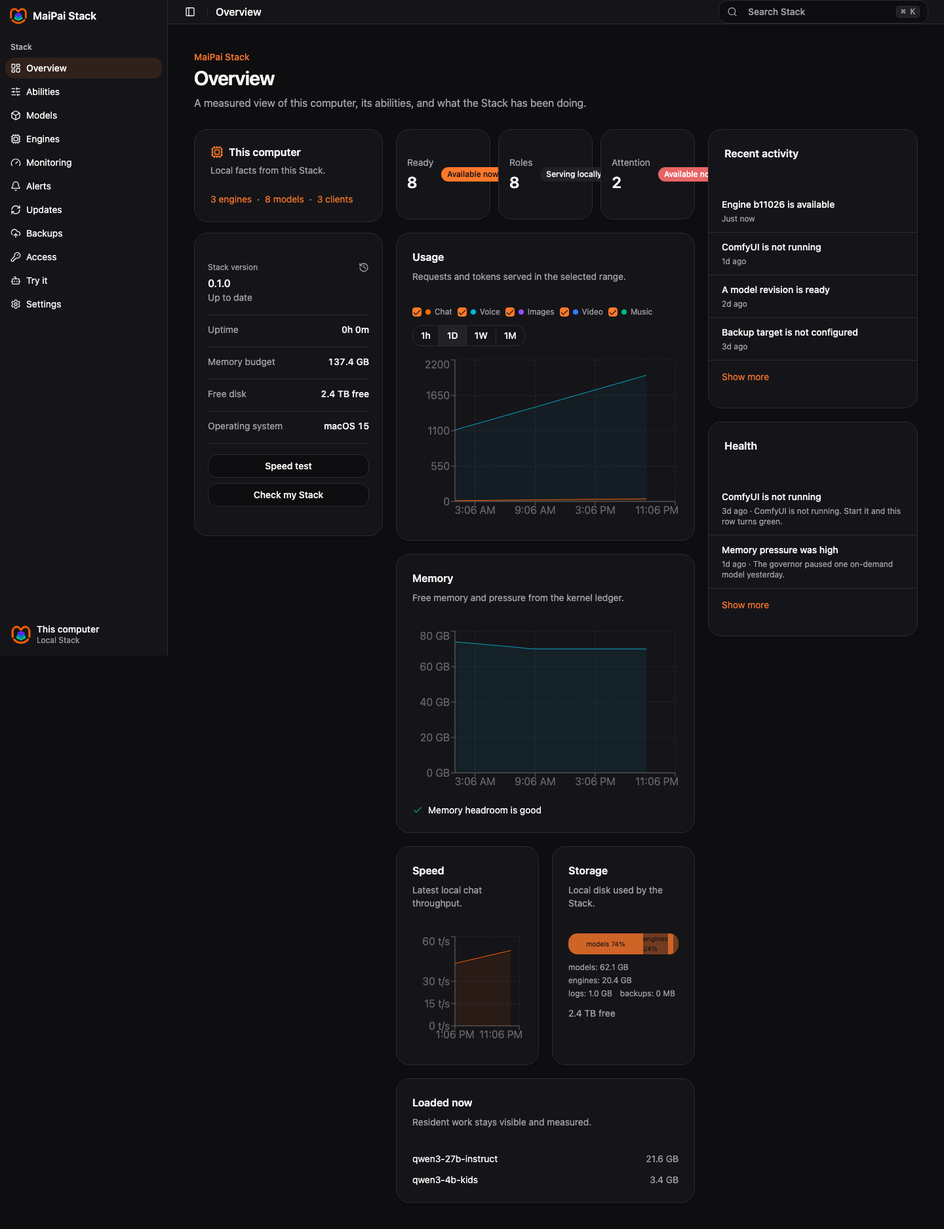
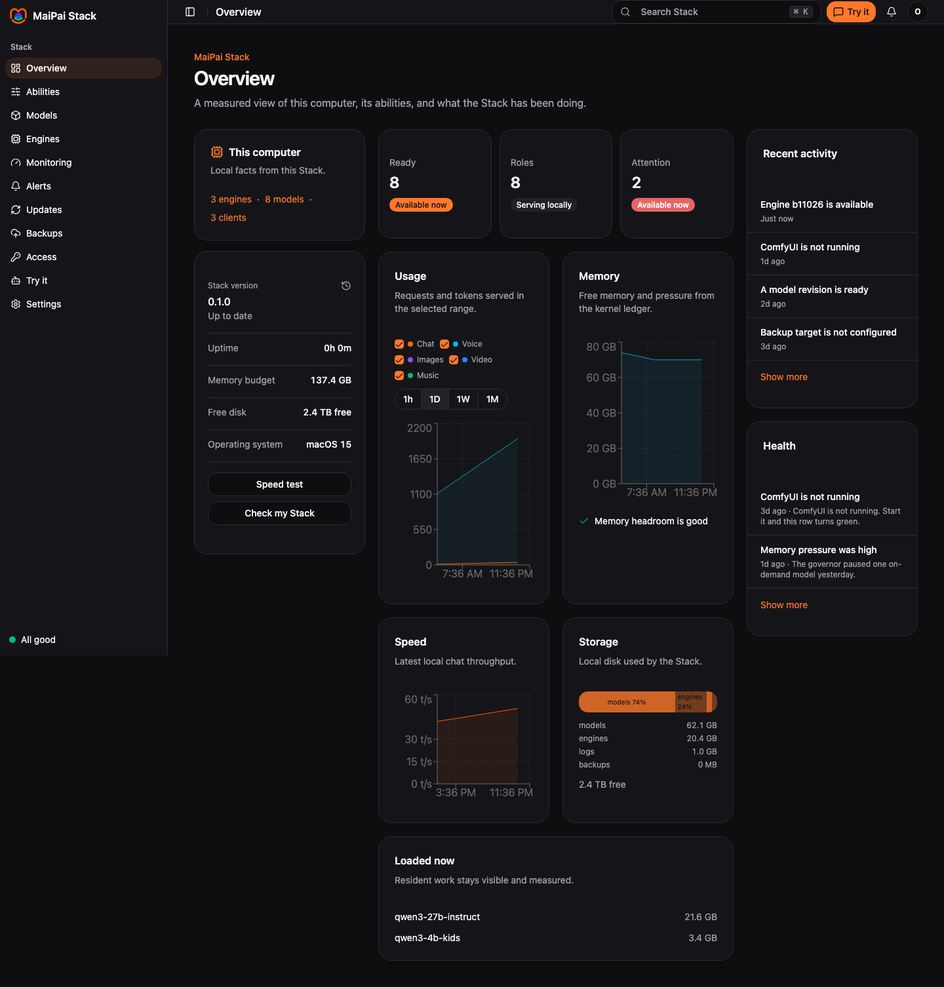
Overview: the grid breathes; badges and labels never clip

diff --git a/frontend/src/pages/OverviewPage.tsx b/frontend/src/pages/OverviewPage.tsx
@@ -15,6 +15,7 @@ import { ToggleGroup, ToggleGroupItem } from "@/kit/ui/toggle-group";
 import { Toaster } from "@/kit/ui/sonner";
 
 type Range = "hour" | "day" | "week" | "month";
+type Layout = "desktop" | "tablet" | "phone";
 type SeriesSample = { at: string; ability?: string | null; requests?: number; tokensIn?: number; tokensOut?: number; freeBytes?: number; pressure?: string; tokensPerSecond?: number | null };
 type SeriesResponse = { range: string; usage: SeriesSample[]; memory: SeriesSample[]; speed: SeriesSample[] };
 type UpdateState = { installed: string; available: string | null };
@@ -31,18 +32,31 @@ function labelFor(at: string): string { return new Date(at).toLocaleTimeString([
 function relativeTime(value: string): string { const minutes = Math.max(0, Math.round((Date.now() - new Date(value).getTime()) / 60_000)); if (minutes < 1) return "Just now"; if (minutes < 60) return `${minutes}m ago`; const hours = Math.round(minutes / 60); if (hours < 24) return `${hours}h ago`; return `${Math.round(hours / 24)}d ago`; }
 function formatUptime(seconds: number): string { const hours = Math.floor(seconds / 3600); const days = Math.floor(hours / 24); if (days > 0) return `${days}d ${hours % 24}h`; return `${hours}h ${Math.floor(seconds / 60) % 60}m`; }
 function initialRange(): Range { const saved = typeof window === "undefined" ? null : window.localStorage.getItem("maipai-overview-range"); return saved === "hour" || saved === "day" || saved === "week" || saved === "month" ? saved : "day"; }
+function layoutFor(width: number): Layout { return width >= 1200 ? "desktop" : width >= 640 ? "tablet" : "phone"; }
+function useLayout(): Layout {
+  const [layout, setLayout] = useState<Layout>(() => layoutFor(typeof window === "undefined" ? 1440 : window.innerWidth));
+  useEffect(() => { const update = () => setLayout(layoutFor(window.innerWidth)); update(); window.addEventListener("resize", update); return () => window.removeEventListener("resize", update); }, []);
+  return layout;
+}
 function Widget({ title, description, children, className = "" }: { title: string; description?: string; children: ReactNode; className?: string }) { return <Card className={className}><CardHeader className="pb-3"><CardTitle className="text-base">{title}</CardTitle>{description && <CardDescription>{description}</CardDescription>}</CardHeader><CardContent>{children}</CardContent></Card>; }
 
-function FactsColumn({ hardware, healthz, budget, updates, counts, onSpeedTest, onCheckStack }: { hardware?: HardwareResponse["hardware"]; healthz?: { version: string; uptimeSeconds: number }; budget?: BudgetResponse; updates?: UpdatesResponse; counts: { engines: number; models: number; clients: number }; onSpeedTest: () => void; onCheckStack: () => void }) {
+function FactsColumn({ className = "", desktop = false, hardware, healthz, budget, updates, counts, onSpeedTest, onCheckStack }: { className?: string; desktop?: boolean; hardware?: HardwareResponse["hardware"]; healthz?: { version: string; uptimeSeconds: number }; budget?: BudgetResponse; updates?: UpdatesResponse; counts: { engines: number; models: number; clients: number }; onSpeedTest: () => void; onCheckStack: () => void }) {
   const facts = [{ label: "Uptime", value: healthz ? formatUptime(healthz.uptimeSeconds) : "Loading" }, { label: "Memory budget", value: budget ? formatBytes(budget.capBytes) : "Loading" }, { label: "Free disk", value: hardware ? `${formatBytes(hardware.freeDiskBytes)} free` : "Loading" }, { label: "Operating system", value: hardware ? osPlain(hardware.osVersion) : "Loading" }];
-  return <aside className="space-y-4"><Card><CardHeader><CardTitle className="flex items-center gap-2"><Cpu className="size-5 text-primary" />This computer</CardTitle><CardDescription>Local facts from this Stack.</CardDescription></CardHeader><CardContent><div className="flex flex-wrap items-center gap-2 text-sm"><Link className="text-primary" to="/engines">{counts.engines} engines</Link><span aria-hidden="true" className="text-muted-foreground">·</span><Link className="text-primary" to="/models">{counts.models} models</Link><span aria-hidden="true" className="text-muted-foreground">·</span><Link className="text-primary" to="/access">{counts.clients} clients</Link></div></CardContent></Card><Card><CardContent className="space-y-4 p-5"><div className="flex items-start justify-between gap-3"><div><p className="text-xs text-muted-foreground">Stack version</p><p className="mt-1 font-medium">{updates?.app?.installed ?? "Loading"}</p><p className="text-sm text-muted-foreground">{updates?.app?.available ? "Update available" : "Up to date"}</p></div><Link aria-label="View updates" title="View updates" className="text-muted-foreground hover:text-foreground" to="/updates"><History className="size-4" /></Link></div>{facts.map((fact) => <div className="flex items-center justify-between gap-4 border-t pt-3 text-sm" key={fact.label}><span className="text-muted-foreground">{fact.label}</span><span className="text-right font-medium tabular-nums">{fact.value}</span></div>)}<div className="space-y-2 border-t pt-4"><Button className="w-full" variant="outline" onClick={onSpeedTest}>Speed test</Button><Button className="w-full" variant="outline" onClick={onCheckStack}>Check my Stack</Button></div></CardContent></Card></aside>;
+  return <aside className={`space-y-4 sm:grid sm:grid-cols-2 sm:items-start sm:gap-4 sm:space-y-0 ${desktop ? "lg:block lg:space-y-4" : ""} ${className}`}><Card><CardHeader><CardTitle className="flex items-center gap-2"><Cpu className="size-5 text-primary" />This computer</CardTitle><CardDescription>Local facts from this Stack.</CardDescription></CardHeader><CardContent><div className="flex flex-wrap items-center gap-2 text-sm"><Link className="text-primary" to="/engines">{counts.engines} engines</Link><span aria-hidden="true" className="text-muted-foreground">·</span><Link className="text-primary" to="/models">{counts.models} models</Link><span aria-hidden="true" className="text-muted-foreground">·</span><Link className="text-primary" to="/access">{counts.clients} clients</Link></div></CardContent></Card><Card><CardContent className="space-y-4 p-5"><div className="flex items-start justify-between gap-3"><div><p className="text-xs text-muted-foreground">Stack version</p><p className="mt-1 font-medium">{updates?.app?.installed ?? "Loading"}</p><p className="text-sm text-muted-foreground">{updates?.app?.available ? "Update available" : "Up to date"}</p></div><Link aria-label="View updates" title="View updates" className="text-muted-foreground hover:text-foreground" to="/updates"><History className="size-4" /></Link></div>{facts.map((fact) => <div className="flex items-center justify-between gap-4 border-t pt-3 text-sm" key={fact.label}><span className="text-muted-foreground">{fact.label}</span><span className="text-right font-medium tabular-nums">{fact.value}</span></div>)}<div className="space-y-2 border-t pt-4"><Button className="w-full" variant="outline" onClick={onSpeedTest}>Speed test</Button><Button className="w-full" variant="outline" onClick={onCheckStack}>Check my Stack</Button></div></CardContent></Card></aside>;
 }
 
 function FeedCard({ title, items, empty, more }: { title: string; items: Array<{ id: string; primary: string; meta: string }>; empty: string; more: string }) { return <Card><CardHeader className="pb-3"><CardTitle className="text-base">{title}</CardTitle></CardHeader><CardContent className="p-0"><div className="divide-y">{items.length ? items.map((item) => <div className="px-5 py-3" key={item.id}><p className="text-sm font-medium">{item.primary}</p><p className="mt-1 text-xs text-muted-foreground">{item.meta}</p></div>) : <p className="px-5 py-4 text-sm text-muted-foreground">{empty}</p>}</div><div className="border-t px-5 py-3"><Link className="text-sm text-primary hover:underline" to="/alerts">{more}</Link></div></CardContent></Card>; }
 
 const abilityLegend = [{ id: "chat", label: "Chat", color: "bg-orange-500" }, { id: "voice", label: "Voice", color: "bg-cyan-500" }, { id: "image", label: "Images", color: "bg-violet-500" }, { id: "video", label: "Video", color: "bg-blue-500" }, { id: "music", label: "Music", color: "bg-emerald-500" }];
 
+function StorageWidget({ storage }: { storage: StorageResponse | undefined }) {
+  const categories = ["models", "engines", "logs", "backups"].map((id) => ({ id, value: storage?.byCategory?.[id] ?? 0 }));
+  const total = categories.reduce((sum, category) => sum + category.value, 0);
+  return <Widget title="Storage" description="Local disk used by the Stack."><div className="space-y-3">{total > 0 && <div className="flex h-8 overflow-hidden rounded-md" aria-label="Storage usage">{categories.map((category) => { const percentage = category.value / total * 100; return <div className="flex min-w-0 items-center justify-center bg-primary/80 px-1 text-[10px] text-primary-foreground even:bg-primary/40" key={category.id} style={{ width: `${Math.max(3, percentage)}%` }} title={`${category.id}: ${formatBytes(category.value)}`}>{percentage >= 18 ? `${category.id} ${Math.round(percentage)}%` : ""}</div>; })}</div>}<div className="space-y-1 text-xs text-muted-foreground">{categories.map((category) => <div className="flex items-center justify-between gap-3" key={category.id}><span>{category.id}</span><span className="tabular-nums">{formatBytes(category.value)}</span></div>)}</div><p className="text-sm text-muted-foreground">{storage ? `${formatBytes(storage.freeDiskBytes)} free` : "Waiting for storage accounting."}</p></div></Widget>;
+}
+
 export function OverviewPage() {
+  const layout = useLayout();
   const [range, setRange] = useState<Range>(initialRange);
   const [visibleAbilities, setVisibleAbilities] = useState<Record<string, boolean>>(() => Object.fromEntries(abilityLegend.map((ability) => [ability.id, true])));
   const roles = useApiResource<{ roles: RoleRecord[] }>("/stack/v1/roles");
@@ -67,8 +81,8 @@ export function OverviewPage() {
   const speed = (series.data?.speed ?? []).map((item) => ({ ...item, label: labelFor(item.at), tps: item.tokensPerSecond ?? 0 }));
   const healthItems = (health.data?.health ?? []).slice(0, 4).map((item) => ({ id: item.code, primary: item.title, meta: `${relativeTime(item.since)} · ${item.text}` }));
   const activityItems = (notifications.data?.notifications ?? []).slice(0, 4).map((item) => ({ id: item.id, primary: item.title, meta: relativeTime(item.at) }));
-  const storageCategories = ["models", "engines", "logs", "backups"].map((id) => ({ id, value: storage.data?.byCategory?.[id] ?? 0 }));
-  const storageTotal = storageCategories.reduce((total, category) => total + category.value, 0);
   const statusLinks = [{ label: "Ready", value: ready, href: "/models", tone: "default" as const }, { label: "Roles", value: roleRows.length, href: "/engines", tone: "secondary" as const }, { label: "Attention", value: attention, href: "/alerts", tone: attention ? "destructive" as const : "secondary" as const }];
-  return <><Toaster /><main className="mx-auto w-full max-w-7xl space-y-7 px-4 py-7 sm:px-8 lg:px-10 lg:py-10"><div><p className="text-sm font-medium text-primary">MaiPai Stack</p><h2 className="mt-1 text-3xl font-semibold tracking-tight">Overview</h2><p className="mt-2 text-base text-muted-foreground">A measured view of this computer, its abilities, and what the Stack has been doing.</p></div><div className="grid gap-5 lg:grid-cols-[18rem_minmax(0,1fr)_20rem]"><FactsColumn hardware={hardware.data?.hardware} healthz={healthz.data} budget={budget.data} updates={updates.data} counts={{ engines: engines.data?.engines?.length ?? 0, models: models.data?.models?.length ?? 0, clients: clients.data?.clients?.length ?? 0 }} onSpeedTest={() => toast("Coming with the speed test item.")} onCheckStack={() => toast("Coming with the Check my Stack item.")} /><section className="min-w-0 space-y-5"><div className="grid gap-3 sm:grid-cols-3">{statusLinks.map((status) => <Link to={status.href} key={status.label}><Card className="h-full hover:border-primary/50"><CardContent className="flex items-center justify-between gap-3 p-4"><div><p className="text-sm text-muted-foreground">{status.label}</p><p className="mt-1 text-2xl font-semibold tabular-nums">{status.value}</p></div><Badge variant={status.tone}>{status.label === "Attention" && status.value === 0 ? "All clear" : status.label === "Roles" ? "Serving locally" : "Available now"}</Badge></CardContent></Card></Link>)}</div><Widget title="Usage" description="Requests and tokens served in the selected range."><div className="mb-4 flex flex-wrap items-center justify-between gap-3"><div className="flex flex-wrap items-center gap-2">{abilityLegend.map((ability) => <label className="flex items-center gap-1.5 text-xs text-muted-foreground" key={ability.id}><Checkbox aria-label={ability.label} className="size-3.5" checked={visibleAbilities[ability.id] !== false} onCheckedChange={(checked) => setVisibleAbilities((current) => ({ ...current, [ability.id]: checked === true }))} /><span className={`size-2 rounded-full ${ability.color}`} />{ability.label}</label>)}</div><ToggleGroup type="single" value={range} onValueChange={(value) => { if (value) setRange(value as Range); }} variant="outline" size="sm" aria-label="Time range"><ToggleGroupItem value="hour" aria-label="1h">1h</ToggleGroupItem><ToggleGroupItem value="day" aria-label="1D">1D</ToggleGroupItem><ToggleGroupItem value="week" aria-label="1W">1W</ToggleGroupItem><ToggleGroupItem value="month" aria-label="1M">1M</ToggleGroupItem></ToggleGroup></div><div className="h-64"><ResponsiveContainer width="100%" height="100%"><AreaChart data={usage}><CartesianGrid strokeDasharray="3 3" className="stroke-border" /><XAxis dataKey="label" /><YAxis /><Tooltip /><Area type="monotone" dataKey="requests" name="Requests" stroke="hsl(22 99% 50%)" fill="hsl(22 99% 50% / .16)" /><Area type="monotone" dataKey="tokens" name="Tokens" stroke="hsl(190 90% 40%)" fill="hsl(190 90% 40% / .10)" /></AreaChart></ResponsiveContainer></div></Widget><Widget title="Memory" description="Free memory and pressure from the kernel ledger."><div className="h-64"><ResponsiveContainer width="100%" height="100%"><AreaChart data={memory}><CartesianGrid strokeDasharray="3 3" className="stroke-border" /><XAxis dataKey="label" /><YAxis unit=" GB" /><Tooltip /><Area type="monotone" dataKey="free" name="Free GB" stroke="hsl(190 90% 40%)" fill="hsl(190 90% 40% / .14)" /></AreaChart></ResponsiveContainer></div><p className="mt-3 flex items-center gap-2 text-sm"><Check className="size-4 text-emerald-600" />{budget.data?.pressure === "normal" ? "Memory headroom is good" : budget.data?.pressure === "warn" ? "Memory is getting tight" : "Memory pressure is high"}</p></Widget><div className="grid gap-5 md:grid-cols-2"><Widget title="Speed" description="Latest local chat throughput."><div className="h-44"><ResponsiveContainer width="100%" height="100%"><AreaChart data={speed}><CartesianGrid strokeDasharray="3 3" className="stroke-border" /><XAxis dataKey="label" /><YAxis unit=" t/s" /><Tooltip /><Area type="monotone" dataKey="tps" name="Tokens/s" stroke="hsl(22 99% 50%)" fill="hsl(22 99% 50% / .14)" /></AreaChart></ResponsiveContainer></div></Widget><Widget title="Storage" description="Local disk used by the Stack."><div className="space-y-3">{storageTotal > 0 && <div className="flex h-8 overflow-hidden rounded-md" aria-label="Storage usage">{storageCategories.map((category) => <div className="flex min-w-0 items-center justify-center bg-primary/80 px-1 text-[10px] text-primary-foreground even:bg-primary/40" key={category.id} style={{ width: `${Math.max(3, category.value / storageTotal * 100)}%` }} title={`${category.id}: ${formatBytes(category.value)}`}>{category.value / storageTotal > 0.08 ? `${category.id} ${Math.round(category.value / storageTotal * 100)}%` : ""}</div>)}</div>}<div className="flex flex-wrap gap-x-3 gap-y-1 text-xs text-muted-foreground">{storageCategories.map((category) => <span key={category.id}>{category.id}: {formatBytes(category.value)}</span>)}</div><p className="text-sm text-muted-foreground">{storage.data ? `${formatBytes(storage.data.freeDiskBytes)} free` : "Waiting for storage accounting."}</p></div></Widget></div><Widget title="Loaded now" description="Resident work stays visible and measured."><div className="space-y-3">{(budget.data?.loaded ?? []).slice(0, 4).map((item) => <div className="flex items-center justify-between gap-3" key={item.id}><span className="truncate text-sm">{item.id}</span><span className="text-sm text-muted-foreground">{formatBytes(item.peakBytes)}</span></div>)}{(budget.data?.loaded ?? []).length === 0 && <p className="text-sm text-muted-foreground">Nothing is loaded yet.</p>}</div></Widget></section><aside className="space-y-5"><FeedCard title="Recent activity" items={activityItems} empty="No notifications yet." more="Show more" /><FeedCard title="Health" items={healthItems} empty="No repairs needed." more="Show more" /></aside></div></main></>;
+  const layoutClass = layout === "desktop" ? "lg:grid-cols-12" : layout === "tablet" ? "sm:grid-cols-1" : "grid-cols-1";
+  const desktopColumns = layout === "desktop";
+  return <><Toaster /><main className="mx-auto w-full max-w-7xl space-y-7 px-4 py-7 sm:px-8 lg:px-10 lg:py-10"><div><p className="text-sm font-medium text-primary">MaiPai Stack</p><h2 className="mt-1 text-3xl font-semibold tracking-tight">Overview</h2><p className="mt-2 text-base text-muted-foreground">A measured view of this computer, its abilities, and what the Stack has been doing.</p></div><div data-layout={layout} className={`grid gap-5 ${layoutClass}`}><FactsColumn desktop={desktopColumns} className={desktopColumns ? "lg:col-span-3 lg:sticky lg:top-5 lg:self-start" : ""} hardware={hardware.data?.hardware} healthz={healthz.data} budget={budget.data} updates={updates.data} counts={{ engines: engines.data?.engines?.length ?? 0, models: models.data?.models?.length ?? 0, clients: clients.data?.clients?.length ?? 0 }} onSpeedTest={() => toast("Coming with the speed test item.")} onCheckStack={() => toast("Coming with the Check my Stack item.")} /><section className={`min-w-0 space-y-5 ${desktopColumns ? "lg:col-span-6" : ""}`}><div className="grid gap-3 sm:grid-cols-3">{statusLinks.map((status) => <Link to={status.href} key={status.label}><Card className="h-full hover:border-primary/50"><CardContent className="flex min-w-0 flex-col items-start gap-2 p-4"><div><p className="text-sm text-muted-foreground">{status.label}</p><p className="mt-1 text-2xl font-semibold tabular-nums">{status.value}</p></div><Badge className="max-w-full whitespace-normal text-left leading-tight" variant={status.tone}>{status.label === "Attention" && status.value === 0 ? "All clear" : status.label === "Roles" ? "Serving locally" : "Available now"}</Badge></CardContent></Card></Link>)}</div><div className="grid gap-5 sm:grid-cols-2"><Widget title="Usage" description="Requests and tokens served in the selected range."><div className="mb-4 flex flex-wrap items-center justify-between gap-3"><div className="flex flex-wrap items-center gap-2">{abilityLegend.map((ability) => <label className="flex items-center gap-1.5 text-xs text-muted-foreground" key={ability.id}><Checkbox aria-label={ability.label} className="size-3.5" checked={visibleAbilities[ability.id] !== false} onCheckedChange={(checked) => setVisibleAbilities((current) => ({ ...current, [ability.id]: checked === true }))} /><span className={`size-2 rounded-full ${ability.color}`} />{ability.label}</label>)}</div><ToggleGroup type="single" value={range} onValueChange={(value) => { if (value) setRange(value as Range); }} variant="outline" size="sm" aria-label="Time range"><ToggleGroupItem value="hour" aria-label="1h">1h</ToggleGroupItem><ToggleGroupItem value="day" aria-label="1D">1D</ToggleGroupItem><ToggleGroupItem value="week" aria-label="1W">1W</ToggleGroupItem><ToggleGroupItem value="month" aria-label="1M">1M</ToggleGroupItem></ToggleGroup></div><div className="h-64"><ResponsiveContainer width="100%" height="100%"><AreaChart data={usage}><CartesianGrid strokeDasharray="3 3" className="stroke-border" /><XAxis dataKey="label" /><YAxis /><Tooltip /><Area type="monotone" dataKey="requests" name="Requests" stroke="hsl(22 99% 50%)" fill="hsl(22 99% 50% / .16)" /><Area type="monotone" dataKey="tokens" name="Tokens" stroke="hsl(190 90% 40%)" fill="hsl(190 90% 40% / .10)" /></AreaChart></ResponsiveContainer></div></Widget><Widget title="Memory" description="Free memory and pressure from the kernel ledger."><div className="h-64"><ResponsiveContainer width="100%" height="100%"><AreaChart data={memory}><CartesianGrid strokeDasharray="3 3" className="stroke-border" /><XAxis dataKey="label" /><YAxis unit=" GB" /><Tooltip /><Area type="monotone" dataKey="free" name="Free GB" stroke="hsl(190 90% 40%)" fill="hsl(190 90% 40% / .14)" /></AreaChart></ResponsiveContainer></div><p className="mt-3 flex items-center gap-2 text-sm"><Check className="size-4 text-emerald-600" />{budget.data?.pressure === "normal" ? "Memory headroom is good" : budget.data?.pressure === "warn" ? "Memory is getting tight" : "Memory pressure is high"}</p></Widget></div><div className="grid gap-5 sm:grid-cols-2"><Widget title="Speed" description="Latest local chat throughput."><div className="h-44"><ResponsiveContainer width="100%" height="100%"><AreaChart data={speed}><CartesianGrid strokeDasharray="3 3" className="stroke-border" /><XAxis dataKey="label" /><YAxis unit=" t/s" /><Tooltip /><Area type="monotone" dataKey="tps" name="Tokens/s" stroke="hsl(22 99% 50%)" fill="hsl(22 99% 50% / .14)" /></AreaChart></ResponsiveContainer></div></Widget><StorageWidget storage={storage.data} /></div><Widget title="Loaded now" description="Resident work stays visible and measured."><div className="space-y-3">{(budget.data?.loaded ?? []).slice(0, 4).map((item) => <div className="flex items-center justify-between gap-3" key={item.id}><span className="truncate text-sm">{item.id}</span><span className="text-sm text-muted-foreground">{formatBytes(item.peakBytes)}</span></div>)}{(budget.data?.loaded ?? []).length === 0 && <p className="text-sm text-muted-foreground">Nothing is loaded yet.</p>}</div></Widget></section><aside className={`space-y-5 ${desktopColumns ? "lg:col-span-3" : ""}`}><FeedCard title="Recent activity" items={activityItems} empty="No notifications yet." more="Show more" /><FeedCard title="Health" items={healthItems} empty="No repairs needed." more="Show more" /></aside></div></main></>;
 }

diff --git a/scripts/screenshot.ts b/scripts/screenshot.ts
@@ -21,6 +21,6 @@ async function main(): Promise<void> {
   mkdirSync(SCREEN_DIR, { recursive: true });
   const port = await freePort(); const dataDir = mkdtempSync(join(tmpdir(), showroom ? "maipai-stack-showroom-" : "maipai-stack-try-")); const baseUrl = `http://127.0.0.1:${port}`;
   const server = Bun.spawn(["bun", "run", "src/index.ts"], { cwd: join(ROOT, "backend"), env: { ...process.env, PORT: String(port), STACK_DATA_DIR: dataDir, STACK_SCRIPTED_ENGINES: "1", ...(showroom ? { STACK_SHOWROOM: "1" } : {}), NODE_ENV: "development" }, stdout: "ignore", stderr: "pipe" });
-  try { await waitForHealth(baseUrl); const browser = await chromium.launch({ headless: true }); try { if (showroom) { const light = await browser.newContext({ colorScheme: "light", viewport: { width: 1440, height: 1000 } }); const lightPage = await light.newPage(); await captureShowroom(lightPage, baseUrl, "/", "Overview", join(SCREEN_DIR, "overview-console-light.png")); await captureShowroom(lightPage, baseUrl, "/engines", "Engines", join(SCREEN_DIR, "showroom-engines.png")); await captureEnginePanel(lightPage, baseUrl, join(SCREEN_DIR, "engines-panel.png")); await captureDetected(lightPage, baseUrl, "/engines", "Engines", join(SCREEN_DIR, "engines-detected.png")); await captureDetected(lightPage, baseUrl, "/engines", "Engines", join(SCREEN_DIR, "detected-panel.png")); await captureShowroom(lightPage, baseUrl, "/models", "Models", join(SCREEN_DIR, "showroom-models.png")); await captureModelsFiltered(lightPage, baseUrl, join(SCREEN_DIR, "models-filtered.png")); await captureModelsPanel(lightPage, baseUrl, join(SCREEN_DIR, "models-panel.png")); await captureDetected(lightPage, baseUrl, "/models", "Models", join(SCREEN_DIR, "models-detected.png")); await captureModelsGroups(lightPage, baseUrl, join(SCREEN_DIR, "models-groups.png")); await captureShowroom(lightPage, baseUrl, "/access", "Access", join(SCREEN_DIR, "access.png")); await captureShowroom(lightPage, baseUrl, "/alerts", "Alerts", join(SCREEN_DIR, "alerts.png")); await captureShowroom(lightPage, baseUrl, "/monitoring", "Monitoring", join(SCREEN_DIR, "monitoring-groups.png")); await light.close(); const dark = await browser.newContext({ colorScheme: "dark", viewport: { width: 1440, height: 1000 } }); const darkPage = await dark.newPage(); await captureShowroom(darkPage, baseUrl, "/", "Overview", join(SCREEN_DIR, "overview-console-dark.png")); await dark.close(); const phone = await browser.newContext({ colorScheme: "light", viewport: { width: 400, height: 900 } }); const phonePage = await phone.newPage(); await captureShowroom(phonePage, baseUrl, "/", "Overview", join(SCREEN_DIR, "overview-console-phone.png")); await captureEnginePanel(phonePage, baseUrl, join(SCREEN_DIR, "engines-panel-phone.png")); await phone.close(); } else { const light = await browser.newContext({ colorScheme: "light", viewport: { width: 1440, height: 1000 } }); const lightPage = await light.newPage(); await captureTry(lightPage, baseUrl + "/try", join(SCREEN_DIR, "try-chat-light.png")); await light.close(); const dark = await browser.newContext({ colorScheme: "dark", viewport: { width: 1440, height: 1000 } }); const darkPage = await dark.newPage(); await captureTry(darkPage, baseUrl + "/try", join(SCREEN_DIR, "try-chat-dark.png")); await dark.close(); const phone = await browser.newContext({ colorScheme: "light", viewport: { width: 400, height: 900 } }); const phonePage = await phone.newPage(); await captureTry(phonePage, baseUrl + "/try", join(SCREEN_DIR, "try-chat-phone.png")); await phone.close(); } } finally { await browser.close(); } } finally { server.kill(); await server.exited; rmSync(dataDir, { recursive: true, force: true }); }
+  try { await waitForHealth(baseUrl); const browser = await chromium.launch({ headless: true }); try { if (showroom) { const light = await browser.newContext({ colorScheme: "light", viewport: { width: 1440, height: 1000 } }); const lightPage = await light.newPage(); await captureShowroom(lightPage, baseUrl, "/", "Overview", join(SCREEN_DIR, "overview-console-light.png")); await captureShowroom(lightPage, baseUrl, "/engines", "Engines", join(SCREEN_DIR, "showroom-engines.png")); await captureEnginePanel(lightPage, baseUrl, join(SCREEN_DIR, "engines-panel.png")); await captureDetected(lightPage, baseUrl, "/engines", "Engines", join(SCREEN_DIR, "engines-detected.png")); await captureDetected(lightPage, baseUrl, "/engines", "Engines", join(SCREEN_DIR, "detected-panel.png")); await captureShowroom(lightPage, baseUrl, "/models", "Models", join(SCREEN_DIR, "showroom-models.png")); await captureModelsFiltered(lightPage, baseUrl, join(SCREEN_DIR, "models-filtered.png")); await captureModelsPanel(lightPage, baseUrl, join(SCREEN_DIR, "models-panel.png")); await captureDetected(lightPage, baseUrl, "/models", "Models", join(SCREEN_DIR, "models-detected.png")); await captureModelsGroups(lightPage, baseUrl, join(SCREEN_DIR, "models-groups.png")); await captureShowroom(lightPage, baseUrl, "/access", "Access", join(SCREEN_DIR, "access.png")); await captureShowroom(lightPage, baseUrl, "/alerts", "Alerts", join(SCREEN_DIR, "alerts.png")); await captureShowroom(lightPage, baseUrl, "/monitoring", "Monitoring", join(SCREEN_DIR, "monitoring-groups.png")); await light.close(); const dark = await browser.newContext({ colorScheme: "dark", viewport: { width: 1440, height: 1000 } }); const darkPage = await dark.newPage(); await captureShowroom(darkPage, baseUrl, "/", "Overview", join(SCREEN_DIR, "overview-console-dark.png")); await dark.close(); const tablet = await browser.newContext({ colorScheme: "light", viewport: { width: 1024, height: 768 } }); const tabletPage = await tablet.newPage(); await captureShowroom(tabletPage, baseUrl, "/", "Overview", join(SCREEN_DIR, "overview-console-tablet.png")); await tablet.close(); const phone = await browser.newContext({ colorScheme: "light", viewport: { width: 400, height: 900 } }); const phonePage = await phone.newPage(); await captureShowroom(phonePage, baseUrl, "/", "Overview", join(SCREEN_DIR, "overview-console-phone.png")); await captureEnginePanel(phonePage, baseUrl, join(SCREEN_DIR, "engines-panel-phone.png")); await phone.close(); } else { const light = await browser.newContext({ colorScheme: "light", viewport: { width: 1440, height: 1000 } }); const lightPage = await light.newPage(); await captureTry(lightPage, baseUrl + "/try", join(SCREEN_DIR, "try-chat-light.png")); await light.close(); const dark = await browser.newContext({ colorScheme: "dark", viewport: { width: 1440, height: 1000 } }); const darkPage = await dark.newPage(); await captureTry(darkPage, baseUrl + "/try", join(SCREEN_DIR, "try-chat-dark.png")); await dark.close(); const phone = await browser.newContext({ colorScheme: "light", viewport: { width: 400, height: 900 } }); const phonePage = await phone.newPage(); await captureTry(phonePage, baseUrl + "/try", join(SCREEN_DIR, "try-chat-phone.png")); await phone.close(); } } finally { await browser.close(); } } finally { server.kill(); await server.exited; rmSync(dataDir, { recursive: true, force: true }); }
 }
 await main();

diff --git a/frontend/src/overview.test.tsx b/frontend/src/overview.test.tsx
@@ -35,3 +35,25 @@ test("Overview requests the selected series range and renders scripted widgets",
   fireEvent.click(Array.from(document.querySelectorAll("button")).find((button) => button.textContent === "Speed test")!);
   await waitFor(() => expect(document.body.textContent).toContain("Coming with the speed test item."));
 });
+
+test("Overview changes its grid layout at desktop, tablet, and phone widths", async () => {
+  globalThis.fetch = mock((input: RequestInfo | URL) => {
+    const path = String(input);
+    if (path.endsWith("/roles")) return Promise.resolve(Response.json({ roles: [{ id: "chat", state: "ready", description: "Chat", model: null }] }));
+    if (path.includes("/series")) return Promise.resolve(Response.json({ range: "day", usage: [], memory: [], speed: [] }));
+    if (path.endsWith("/budget")) return Promise.resolve(Response.json({ capBytes: 1, freeMemoryBytes: 1, availablePercent: 100, pressure: "normal", loaded: [], queue: [] }));
+    if (path.endsWith("/hardware")) return Promise.resolve(Response.json({ hardware: { freeDiskBytes: 1, osVersion: "15.0" } }));
+    if (path.endsWith("/healthz")) return Promise.resolve(Response.json({ version: "0.1.0", uptimeSeconds: 0 }));
+    if (path.endsWith("/updates")) return Promise.resolve(Response.json({ app: { installed: "0.1.0", available: null } }));
+    if (path.endsWith("/storage")) return Promise.resolve(Response.json({ freeDiskBytes: 1, byCategory: { models: 10, engines: 5, logs: 1, backups: 1 } }));
+    return Promise.resolve(Response.json({}));
+  }) as unknown as typeof fetch;
+  for (const [width, expected, column] of [[1440, "desktop", "lg:grid-cols-12"], [1024, "tablet", "sm:grid-cols-1"], [400, "phone", "grid-cols-1"]] as const) {
+    Object.defineProperty(window, "innerWidth", { configurable: true, writable: true, value: width });
+    render(<MemoryRouter initialEntries={["/"]}><DashboardShell /></MemoryRouter>);
+    await waitFor(() => expect(document.querySelector(`[data-layout="${expected}"]`)).toBeTruthy());
+    expect(document.querySelector(`[data-layout="${expected}"]`)?.className).toContain(column);
+    for (const category of ["models", "engines", "logs", "backups"]) expect(document.body.textContent).toContain(category);
+    cleanup();
+  }
+});
